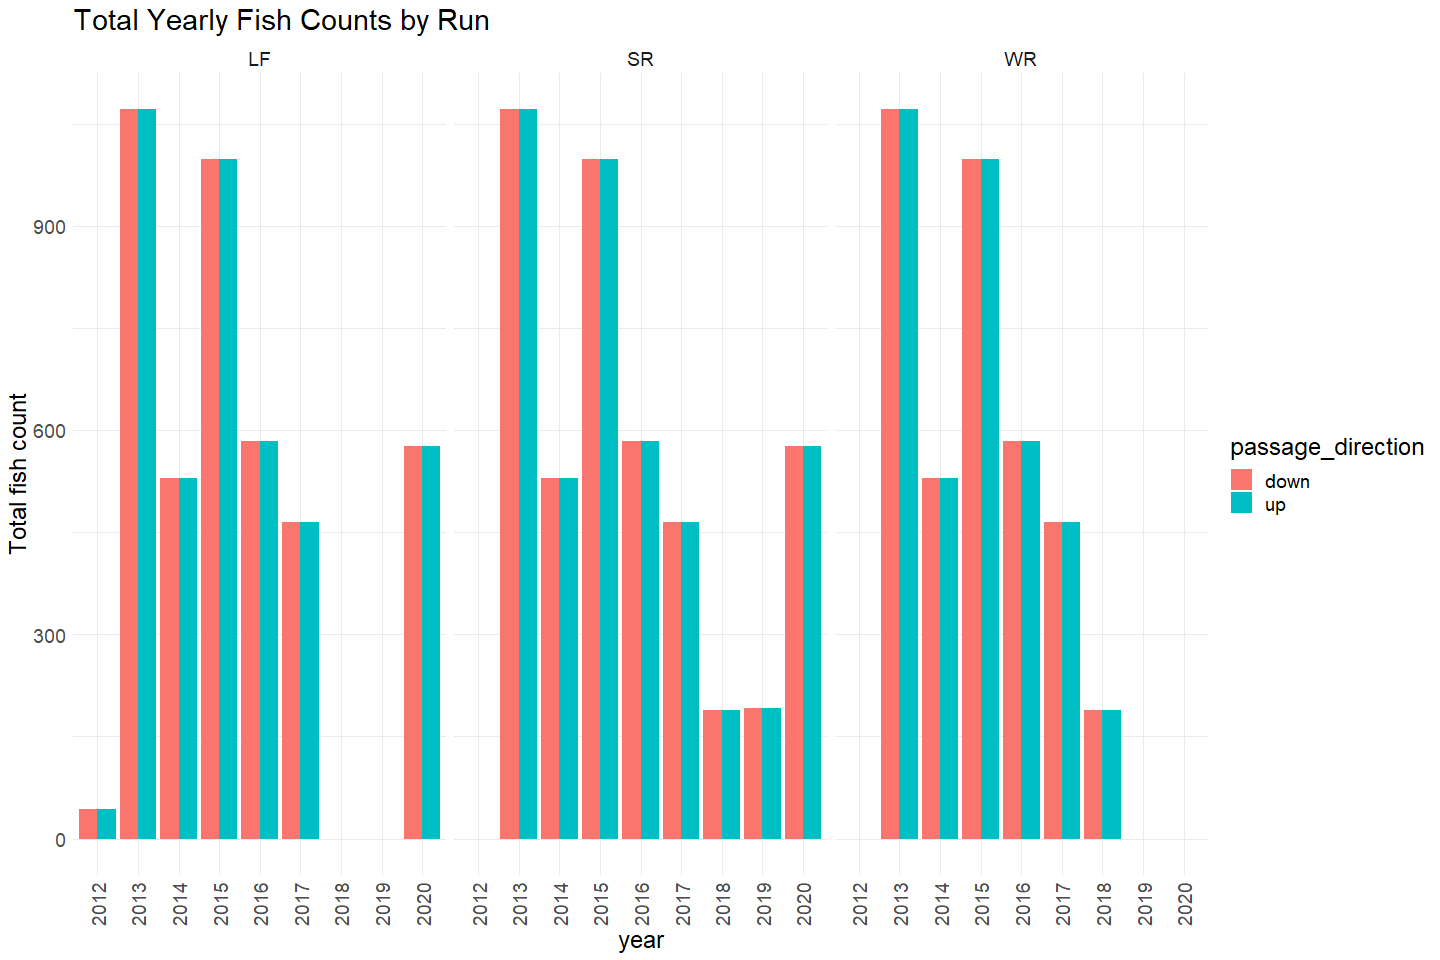
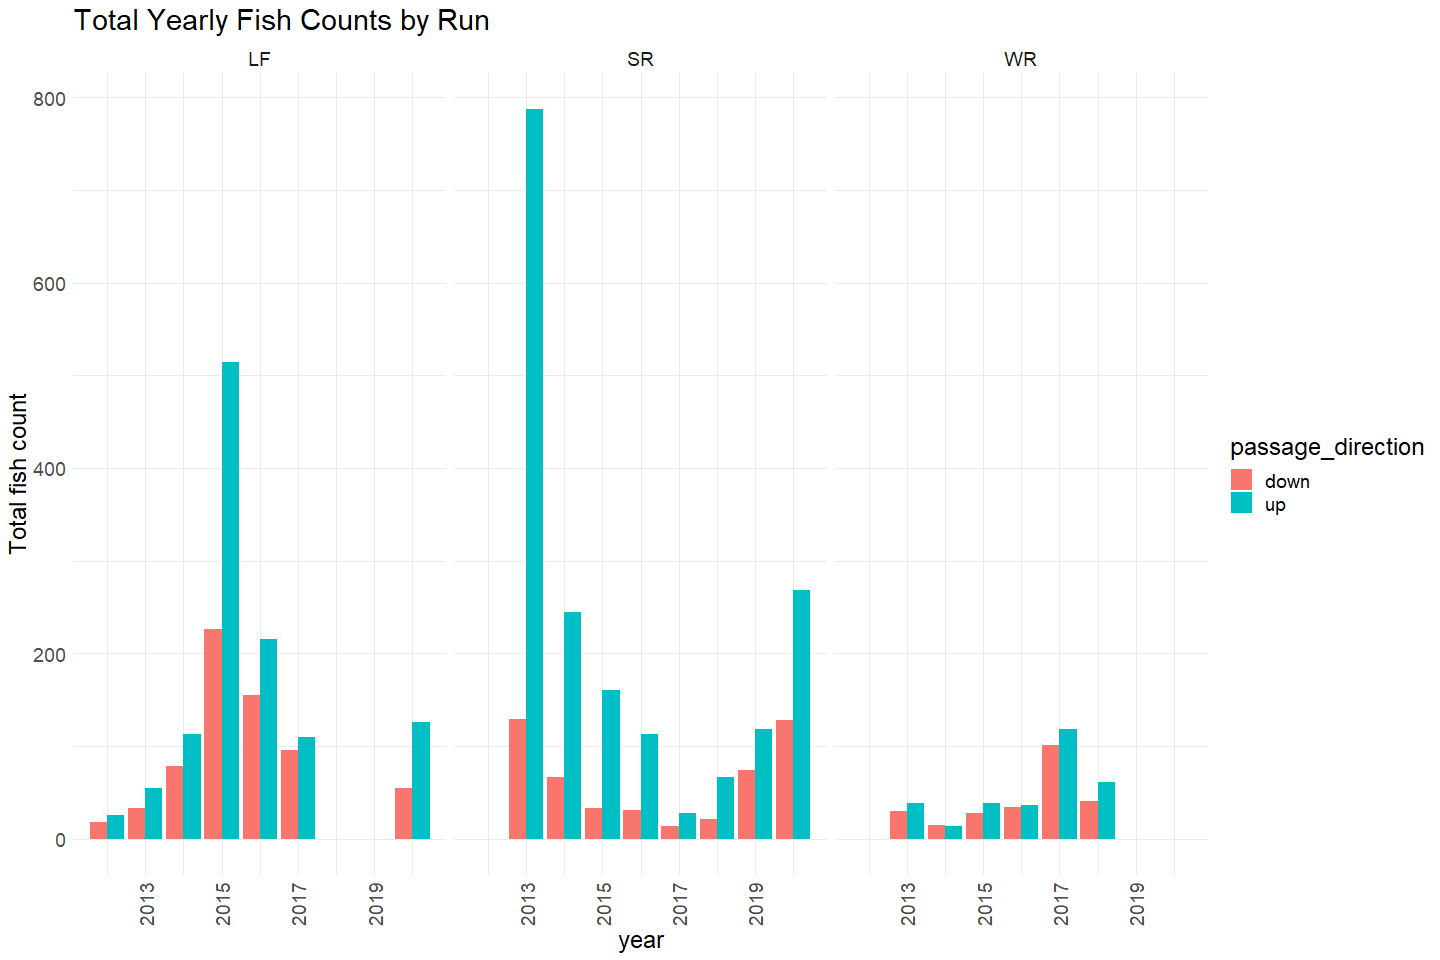
Fixes total counts graph for clear creek upstream passage

diff --git a/scripts/adult-upstream-passage-monitoring/clear-creek/clear-creek-qc-checklist.md b/scripts/adult-upstream-passage-monitoring/clear-creek/clear-creek-qc-checklist.md
@@ -198,9 +198,8 @@ cleaner_video_data %>% group_by(date, passage_direction) %>%
 cleaner_video_data  %>%
   mutate(year = as.factor(year(date))) %>%
   filter(run %in% c("LF", "SR", "WR")) %>% # Filter to only show runs that have more than one data point and are not NA/Unknown
-  group_by(year(date)) %>%
-  mutate(total_catch = sum(count)) %>%
-  ungroup() %>%
+  group_by(year = year(date), passage_direction, run) %>%
+  summarise(total_catch = sum(count)) %>%
   ggplot(aes(x = year, y = total_catch, fill = passage_direction)) + 
   geom_col(position = "dodge") + 
   theme_minimal() +
@@ -210,6 +209,8 @@ cleaner_video_data  %>%
         axis.text.x = element_text(angle = 90, vjust = 0.5, hjust=1)) + 
   facet_grid(~run)
 ```
+
+    ## `summarise()` has grouped output by 'year', 'passage_direction'. You can override using the `.groups` argument.
 
 ![](clear-creek-qc-checklist_files/figure-gfm/unnamed-chunk-8-1.png)<!-- -->
 
